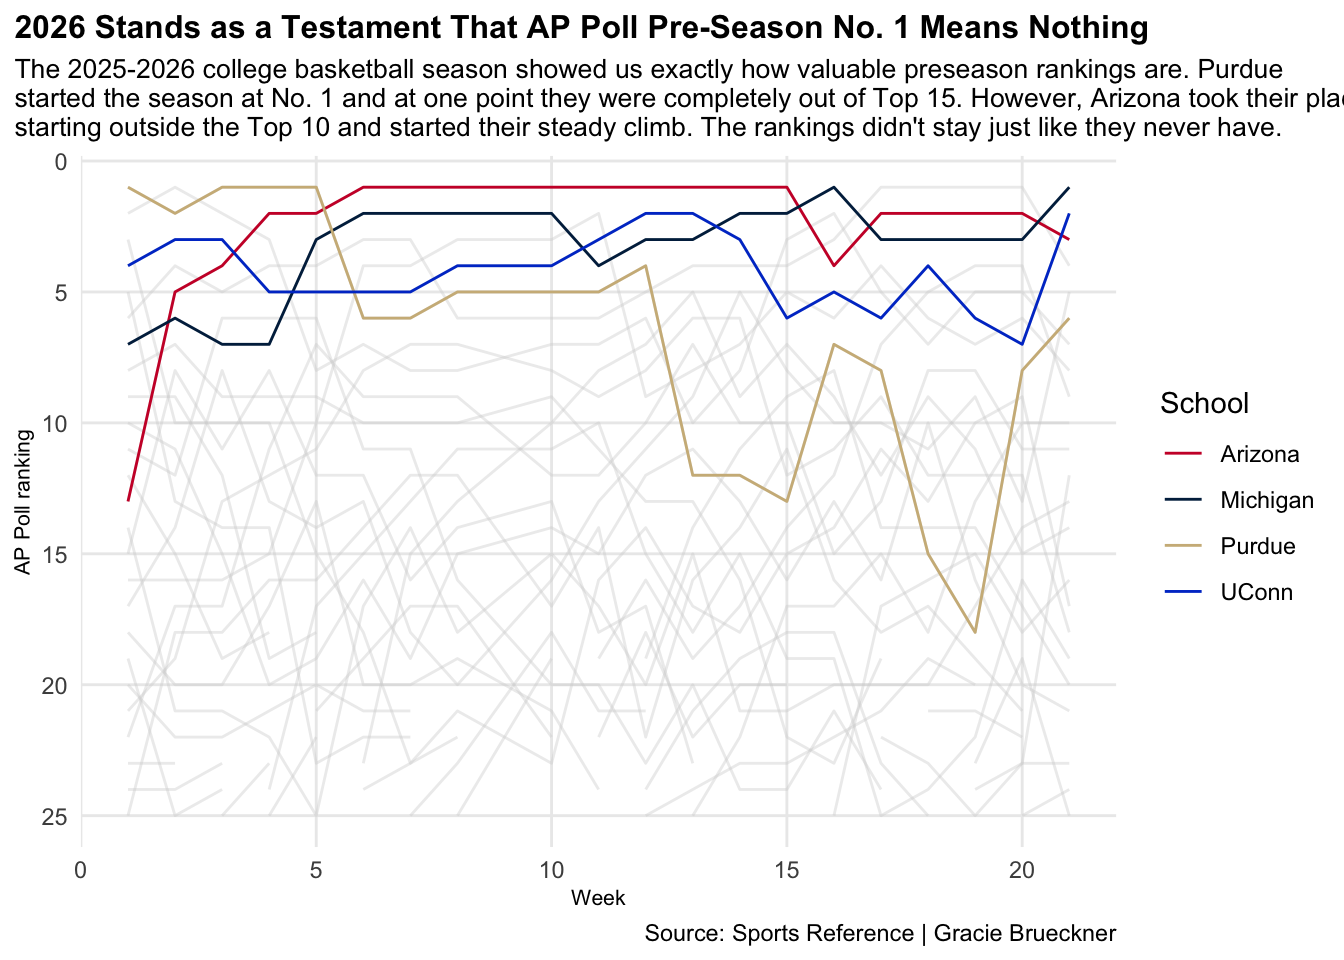
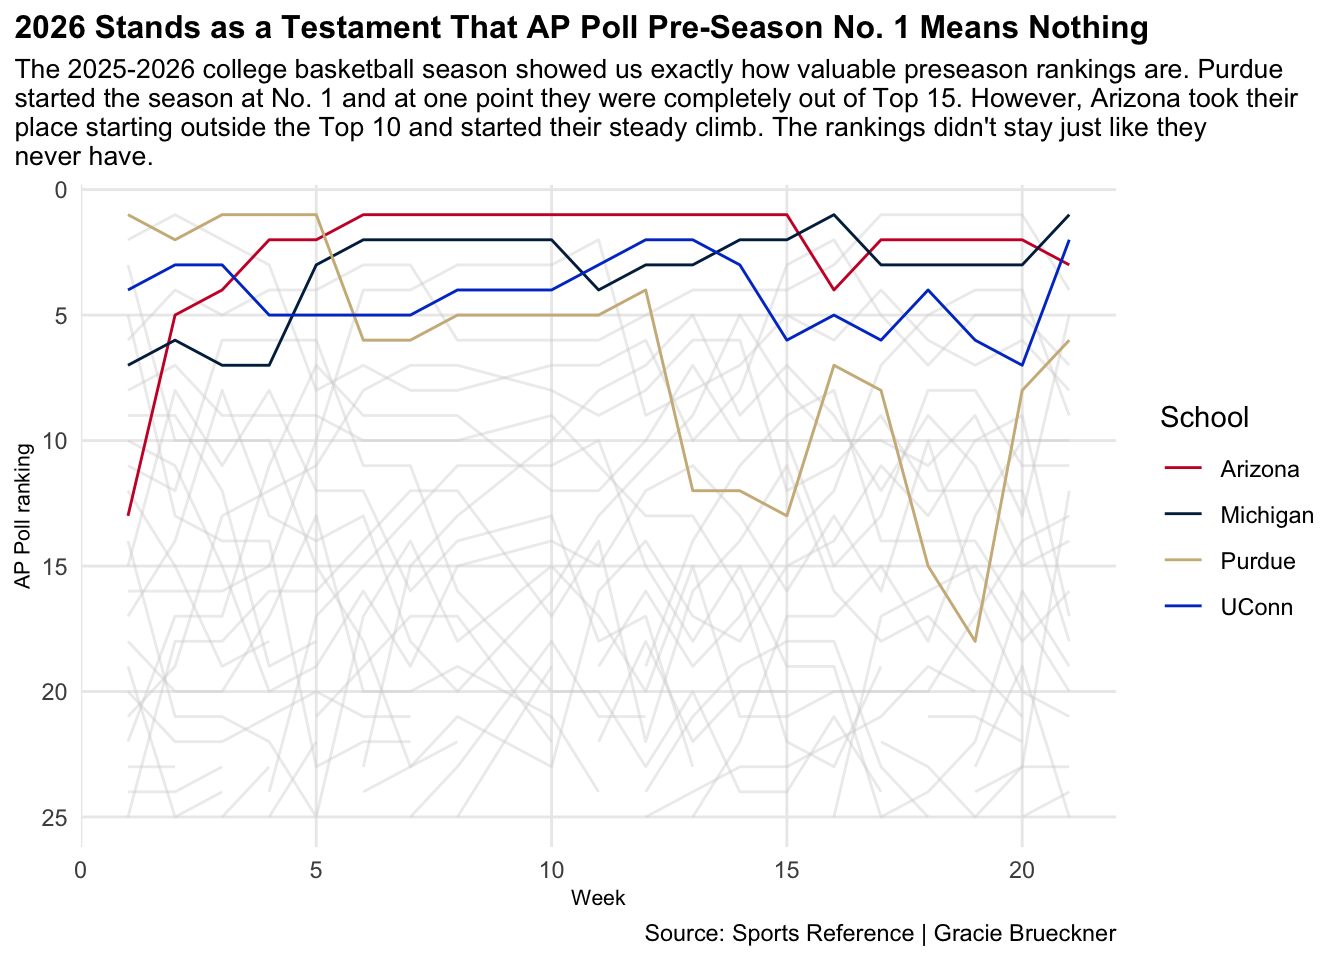
cbb

diff --git a/posts/cbbpoll/index.html b/posts/cbbpoll/index.html
@@ -7,9 +7,9 @@
 <meta name="viewport" content="width=device-width, initial-scale=1.0, user-scalable=yes">
 
 <meta name="author" content="Gracie Brueckner">
-<meta name="dcterms.date" content="2026-04-10">
+<meta name="dcterms.date" content="2026-04-24">
 
-<title>If you are ranked No.&nbsp;1 in the AP Pre-Season Poll, are you destined for a National Championship? – Gracie Brueckner's Sports Blog</title>
+<title>Built to Win, Expected to Fail? If you are ranked No.&nbsp;1 in the AP Preseason Poll, Are you destined for a National Championship? – Gracie Brueckner's Sports Blog</title>
 <style>
 /* Default styles provided by pandoc.
 ** See https://pandoc.org/MANUAL.html#variables-for-html for config info.
@@ -154,7 +154,7 @@ pre > code.sourceCode > span > a:first-child::before { text-decoration: underlin
 <header id="title-block-header" class="quarto-title-block default page-columns page-full">
   <div class="quarto-title-banner page-columns page-full">
     <div class="quarto-title column-body">
-      <h1 class="title">If you are ranked No.&nbsp;1 in the AP Pre-Season Poll, are you destined for a National Championship?</h1>
+      <h1 class="title">Built to Win, Expected to Fail? If you are ranked No.&nbsp;1 in the AP Preseason Poll, Are you destined for a National Championship?</h1>
                                 <div class="quarto-categories">
                 <div class="quarto-category">basketball</div>
                 <div class="quarto-category">ap poll</div>
@@ -176,7 +176,7 @@ pre > code.sourceCode > span > a:first-child::before { text-decoration: underlin
       <div>
       <div class="quarto-title-meta-heading">Published</div>
       <div class="quarto-title-meta-contents">
-        <p class="date">April 10, 2026</p>
+        <p class="date">April 24, 2026</p>
       </div>
     </div>
     
@@ -230,7 +230,7 @@ pre > code.sourceCode > span > a:first-child::before { text-decoration: underlin
 <span id="cb1-24"><a href="#cb1-24" aria-hidden="true" tabindex="-1"></a>    <span class="at">x=</span><span class="st">"Week"</span>, </span>
 <span id="cb1-25"><a href="#cb1-25" aria-hidden="true" tabindex="-1"></a>    <span class="at">y=</span><span class="st">"AP Poll ranking"</span>, </span>
 <span id="cb1-26"><a href="#cb1-26" aria-hidden="true" tabindex="-1"></a>    <span class="at">title=</span><span class="st">"2026 Stands as a Testament That AP Poll Pre-Season No. 1 Means Nothing"</span>, </span>
-<span id="cb1-27"><a href="#cb1-27" aria-hidden="true" tabindex="-1"></a>    <span class="at">subtitle=</span><span class="st">"The 2025-2026 college basketball season showed us exactly how valuable preseason rankings are. Purdue</span><span class="sc">\n</span><span class="st">started the season at No. 1 and at one point they were completely out of Top 15. However, Arizona took their place</span><span class="sc">\n</span><span class="st">starting outside the Top 10 and started their steady climb. The rankings didn't stay just like they never have. "</span>, </span>
+<span id="cb1-27"><a href="#cb1-27" aria-hidden="true" tabindex="-1"></a>    <span class="at">subtitle=</span><span class="st">"The 2025-2026 college basketball season showed us exactly how valuable preseason rankings are. Purdue</span><span class="sc">\n</span><span class="st">started the season at No. 1 and at one point they were completely out of Top 15. However, Arizona took their</span><span class="sc">\n</span><span class="st">place starting outside the Top 10 and started their steady climb. The rankings didn't stay just like they</span><span class="sc">\n</span><span class="st">never have. "</span>, </span>
 <span id="cb1-28"><a href="#cb1-28" aria-hidden="true" tabindex="-1"></a>    <span class="at">caption=</span><span class="st">"Source: Sports Reference | Gracie Brueckner"</span></span>
 <span id="cb1-29"><a href="#cb1-29" aria-hidden="true" tabindex="-1"></a>    ) <span class="sc">+</span></span>
 <span id="cb1-30"><a href="#cb1-30" aria-hidden="true" tabindex="-1"></a>  <span class="fu">theme_minimal</span>() <span class="sc">+</span> </span>

diff --git a/index.html b/index.html
@@ -209,7 +209,7 @@ window.Quarto = {
 
 <div class="quarto-listing quarto-listing-container-default" id="listing-listing">
 <div class="list quarto-listing-default">
-<div class="quarto-post image-right" data-index="0" data-categories="YmFza2V0YmFsbCUyQ2FwJTIwcG9sbCUyQ2NiYg==" data-listing-date-sort="1775797200000" data-listing-file-modified-sort="1777045529276" data-listing-date-modified-sort="NaN" data-listing-reading-time-sort="8" data-listing-word-count-sort="1439">
+<div class="quarto-post image-right" data-index="0" data-categories="YmFza2V0YmFsbCUyQ2FwJTIwcG9sbCUyQ2NiYg==" data-listing-date-sort="1777006800000" data-listing-file-modified-sort="1777052325643" data-listing-date-modified-sort="NaN" data-listing-reading-time-sort="8" data-listing-word-count-sort="1438">
 <div class="thumbnail"><a href="./posts/cbbpoll/index.html" class="no-external">
 
 <img loading="lazy" src="./posts/cbbpoll/image.png" class="thumbnail-image">
@@ -217,7 +217,7 @@ window.Quarto = {
 </a></div>
 <div class="body">
 <h3 class="no-anchor listing-title">
-<a href="./posts/cbbpoll/index.html" class="no-external">If you are ranked No.&nbsp;1 in the AP Pre-Season Poll, are you destined for a National Championship?</a>
+<a href="./posts/cbbpoll/index.html" class="no-external">Built to Win, Expected to Fail? If you are ranked No.&nbsp;1 in the AP Preseason Poll, Are you destined for a National Championship?</a>
 </h3>
 <div class="listing-categories">
 
@@ -235,7 +235,7 @@ Every college basketball season begins with expectations, and for one team, the 
 <div class="metadata">
 <a href="./posts/cbbpoll/index.html" class="no-external">
 <div class="listing-date">
-Apr 10, 2026
+Apr 24, 2026
 </div>
 <div class="listing-author">
 Gracie Brueckner
